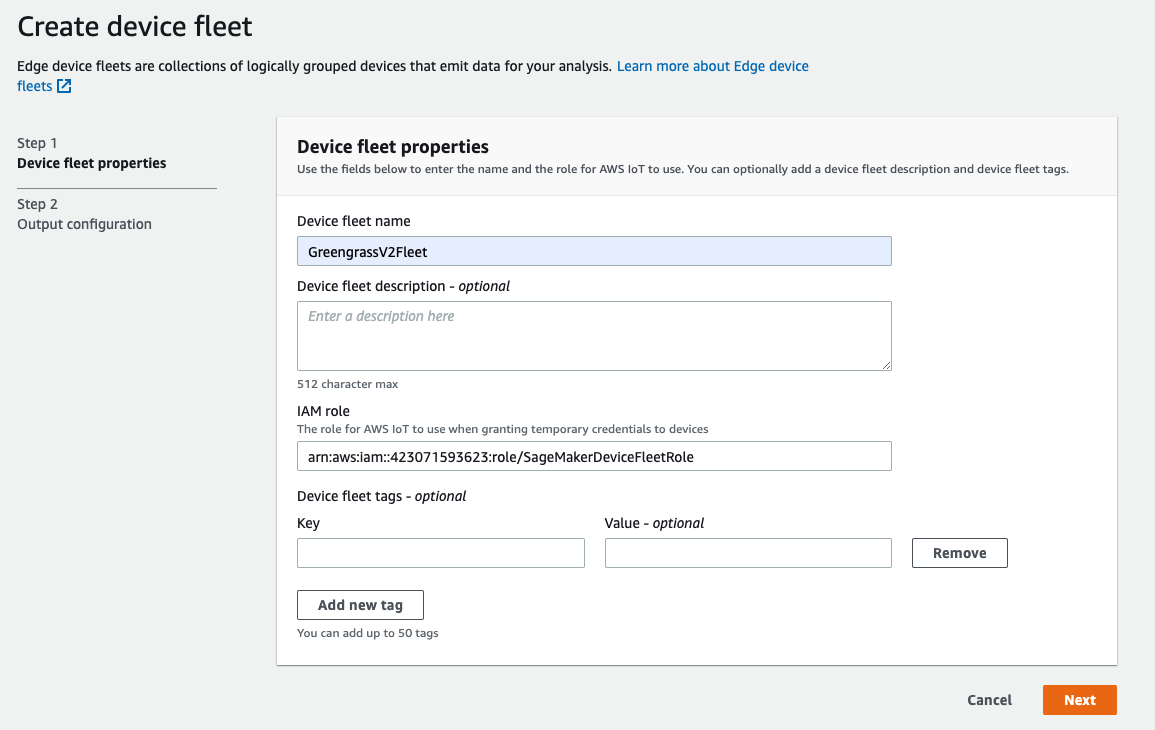
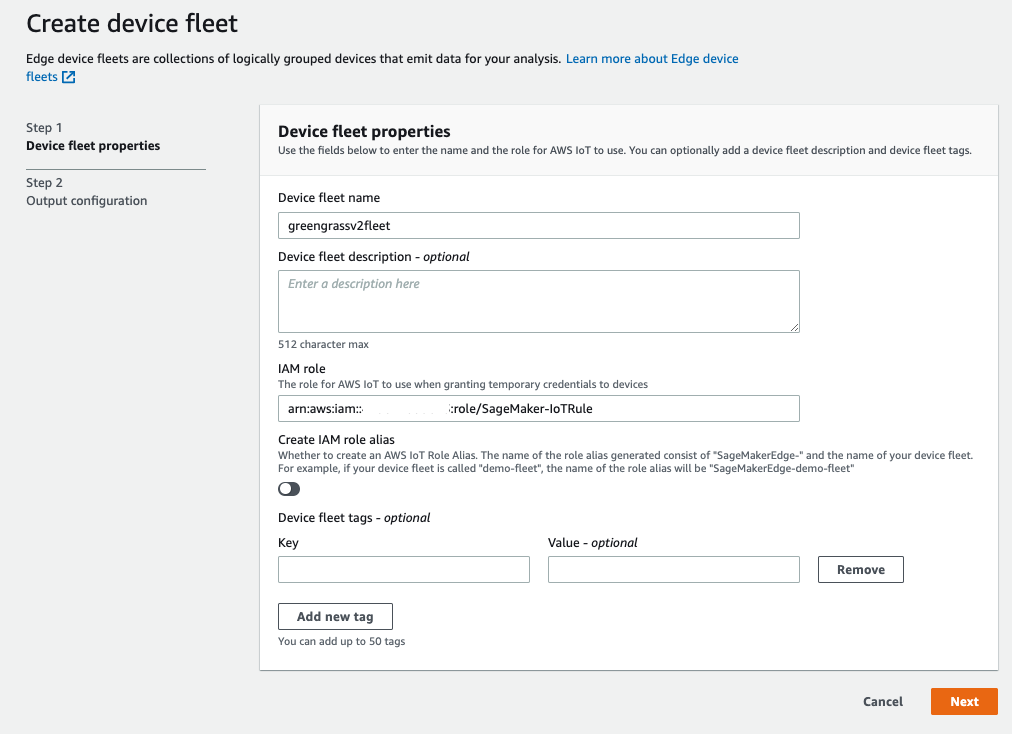
Update workshop

diff --git a/README.md b/README.md
@@ -39,11 +39,19 @@ git clone https://github.com/dhwalters423/greengrass-v2-sagemaker-edge-manager-p
 
 Component stubs are in the components/ directory.
 
-## **Create an IoT Role Alias for SageMaker Edge Manager**
+## **Create or edit an IoT Role Alias for SageMaker Edge Manager**
 
-The SageMaker Edge Manager Agent on the device will need to access resources in the Cloud. It uses the AWS IoT Credential Provider Role Alias to perform actions.
+The SageMaker Edge Manager Agent on the device will need to access resources in the Cloud. It uses the AWS IoT Credential Provider Role Alias to perform actions. 
 
-First, we will create the Role in IAM.
+First, we will need to create or edit the Role in IAM. When you set up your AWS IoT Greengrass Core device, you may have already performed this step. 
+
+### **If you already set up a Role for your AWS IoT Greengrass device:**
+
+Navigate to **AWS IoT Core Console → Secure → Role Aliases --> your Role Alias --> Edit IAM Role**
+
+Go to **Setup permissions for the IAM Role**
+
+### **If you have not set up an IAM Role yet:**
 
 Navigate to **AWS IAM Console → Roles → Create role**
 
@@ -56,16 +64,18 @@ Click on **‘Next: Permissions’, ‘Next: Tags’, ‘Next': Review'.**
 
 Click on ‘**Create role**’
 
+### Setup permissions for the IAM Role
+
 Once the role is created, we need to attach policies and authorize the IoT Credential Provider to access it.
 
-Choose your created role from the list of IAM roles. Click on **‘Attach Policies’** and attach the following policies:
+Choose your created role from the list of IAM Roles. Click on **‘Attach Policies’** and attach the following policies:
 
 * AmazonSageMakerEdgeDeviceFleetPolicy
 * AmazonS3FullAccess
 
 Click on **‘Trust relationships’ → ‘Edit trust relationship’**
 
-. Add the following to the Policy Document and click on ''**Update Trust Policy'**:
+Add the following to the Policy Document and click on ''**Update Trust Policy'**:
 
 ```
 {
@@ -103,39 +113,38 @@ aws s3 mb s3://<unique-uuid>-sagemaker-inference-results --region <REGION>
 
 ## **Create the Edge Manager Device Fleet**
 
-Navigate to **Amazon Sagemaker Console →** **Edge Manager → Edge device fleets → Create device fleet**
+Navigate to **Amazon Sagemaker Console → Edge Manager → Edge device fleets → Create device fleet**
 
-* Device fleet name: greengrassv2fleet
-* IAM Role: The ARN of the IAM Role modified in the previous step. It is the same one that is linked to your IoT Role Alias. 
+**Device fleet properties:**
+* **Device fleet name:** greengrassv2fleet
+* **IAM Role:** The ARN of the IAM Role modified in the previous step. It is the same one that is linked to your IoT Role Alias. 
+* **Create IAM role alias:** If you do not already have an AWS IoT Role Alias for your Greengrass device, select this option to create it and attach the provided IAM Role.
 
 ![Create Device Fleet](images/emdevicefleet.png)
 
 Click ‘Next’.
 
-* S3 bucket URI: ``s3://<your-inference-bucket-name>/sme-capture``
-
-![Create Device Fleet](images/emdevicefleet2.png)
+**Output configuration:**
+* **S3 bucket URI**: ``s3://<your-inference-bucket-name>``
 
 Click ‘Submit’ to finish creating the Edge Manager Fleet.
 
-Creating an Edge Manager fleet will also create a Role Alias in AWS IoT. 
-
 Navigate to **AWS IoT Console → Secure → Role Aliases**
 
-You will see a role named SageMakerEdge-greengrassv2fleet with your IAM role attached.
+You will see a role named SageMakerEdge-greengrassv2fleet with your IAM role attached if you chose to create a new IoT Role Alias.
 
 ## **Add your AWS IoT Greengrass Core Device to the Edge Manager Fleet**
 
 Open the Amazon Sagemaker AWS Console. Navigate to **Edge Manager → Edge devices → Register devices**
 
-* Device fleet name: GreengrassV2Fleet (the name of your fleet)
+**Device fleet name:** greengrassv2fleet (the name of your fleet)
 
 ![Register EM Device](images/registerdevice.png)
 
 Click ‘Next’
 
-* Device Name: The name of your AWS IoT Core Greengrass Core Thing Name (MUST MATCH regex: ^[a-zA-Z0-9](-*[a-zA-Z0-9]){0,62}$)
-* IoT Name: The name of your AWS IoT Core Greengrass Core Thing Name
+* **Device Name:** The name of your AWS IoT Core Greengrass Core Thing Name (MUST MATCH regex: ``^[a-zA-Z0-9](-*[a-zA-Z0-9]){0,62}$``)
+* **IoT Name:** The name of your AWS IoT Core Greengrass Core Thing Name (Should be the same as Device Name)
 
 ![Register EM Device](images/registerdevice2.png)
 
@@ -155,8 +164,8 @@ Next, we will deploy the Edge Manager Agent to the Greengrass device.
 
 Navigate to the **AWS IoT Console → Greengrass → Deployments → Create**
 
-* Name: ‘Deployment for ML using EM’
-* Deployment target: Choose either ‘Core device’ to deploy this to a single IoT Thing, or ‘Thing group’ to deploy it to all Greengrass Cores in a Thing Group. In a production environment, Thing Groups can be used to deploy components to a fleet of devices
+* **Name:** ‘Deployment for ML using EM’
+* **Deployment target:** Choose either ‘Core device’ to deploy this to a single IoT Thing, or ‘Thing group’ to deploy it to all Greengrass Cores in a Thing Group. In a production environment, Thing Groups can be used to deploy components to a fleet of devices
 
 ![Create Deployment](images/createdeployment.png)
 
